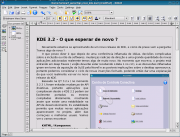
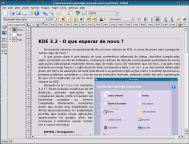
New small pictures (previews), now all of 144 pixel height
git-svn-id: svn+ssh://svn.kde.org/home/kde/trunk/www/areas/koffice@282289 283d02a7-25f6-0310-bc7c-ecb5cbfe19da

diff --git a/kword/screenshots.php b/kword/screenshots.php
@@ -6,12 +6,15 @@
 ?>
 
 <?php
+
+# Use height 144 pixels to have an uniform look
+
 $gallery = new ImageGallery("KWord Screenshots");
-$gallery->addImage("pics/kword_pt_cnc_sm.png", "pics/kword_pt_cnc.png", "180", "137", "[Screenshot KWord 1.3 Brazilian]", 0 , "KWord 1.3 in Brazilian Portuguese");
-$gallery->addImage("pics/kword_classic_picture_sm.png", "pics/kword_classic_picture.png", "150", "106", "[Screenshot KWord 1.3 Classic Look, with Picture]", 0 , "KWord 1.3 in classic look with picture");
+$gallery->addImage("pics/kword_pt_cnc_sm.png", "pics/kword_pt_cnc.png", "189", "144", "[Screenshot KWord 1.3 Brazilian]", 0 , "KWord 1.3 in Brazilian Portuguese");
+$gallery->addImage("pics/kword_classic_picture_sm.png", "pics/kword_classic_picture.png", "204", "144", "[Screenshot KWord 1.3 Classic Look, with Picture]", 0 , "KWord 1.3 in classic look with picture");
 $gallery->startNewRow();
-$gallery->addImage("pics/kword_kde31_it_sm.png", "pics/kword_kde31_it.png", "255", "180", "[Screenshot KWord 1.3 Italian]", 0 , "KWord 1.3 in Italian");
-$gallery->addImage("pics/kword-arabic_sm.png", "pics/kword-arabic.png", "191", "145", "[Screenshot KWord 1.2 Arabic]", 0 , "KWord 1.2 can be used for bi-directional texts like Arabic (05/02)");
+$gallery->addImage("pics/kword_kde31_it_sm.png", "pics/kword_kde31_it.png", "204", "144", "[Screenshot KWord 1.3 Italian]", 0 , "KWord 1.3 in Italian");
+$gallery->addImage("pics/kword-arabic_sm.png", "pics/kword-arabic.png", "189", "144", "[Screenshot KWord 1.2 Arabic]", 0 , "KWord 1.2 can be used for bi-directional texts like Arabic (05/02)");
 $gallery->startNewRow();
 $gallery->show();
 ?>
